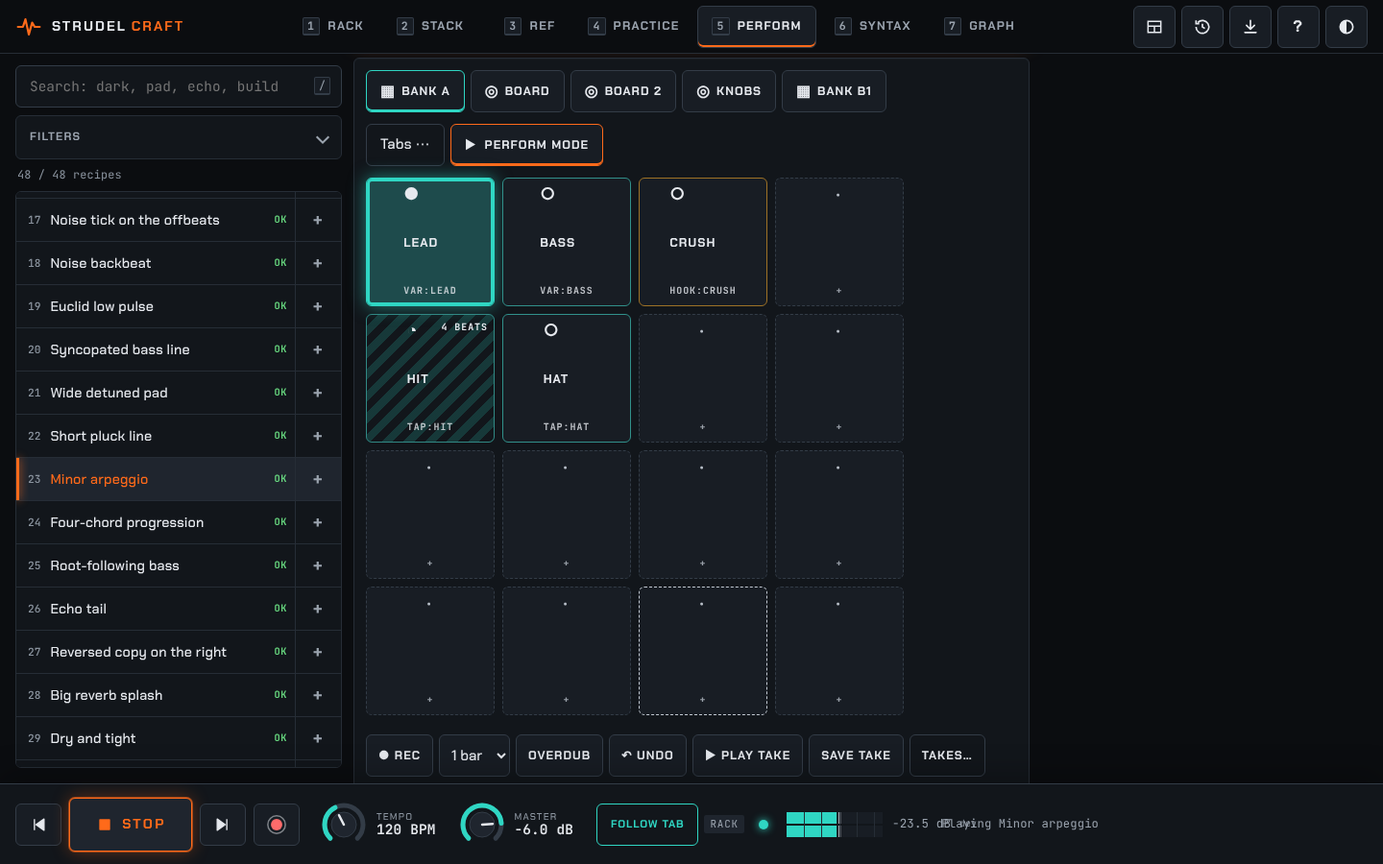
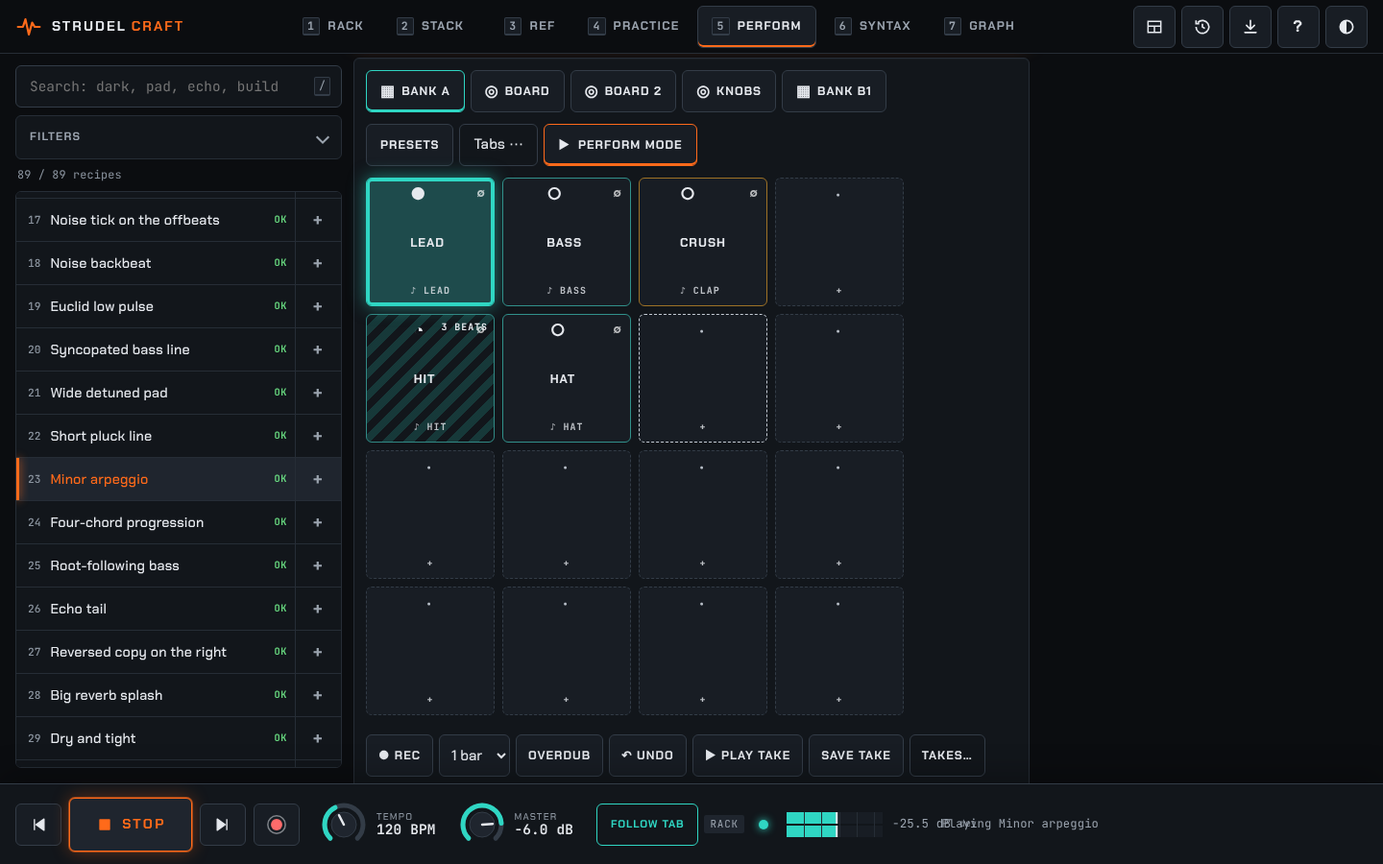
Perform pads: pads no code reads play a built-in audition voice (kick..crash by name/index, journaled as before), voice label on the pad, no toast over the pads, perform.js waits for engine boot; test perform_pads_audio. Refs #113 #114 #116
Claude-Session: https://claude.ai/code/session_01Tu9yF1Ta77zUw7h4fxzQMi

diff --git a/site/perform.js b/site/perform.js
@@ -7,6 +7,7 @@
 import * as N from './numfmt.js';
 import * as PP from './perform-presets.js';
 import * as PO from './perform-outputs.js';
+import * as PA from './perform-audition.js';
 const sc = window.strudelCraft;
 const $ = (s, r = document) => r.querySelector(s);
 const h = (tag, attrs = {}, ...kids) => { const e = document.createElement(tag); for (const [k, v] of Object.entries(attrs)) { if (v == null || v === false) continue; if (k === 'class') e.className = v; else if (k.startsWith('on')) e.addEventListener(k.slice(2), v); else e.setAttribute(k, v === true ? '' : v); } e.append(...kids.flat().filter((x) => x != null)); return e; };
@@ -309,10 +310,18 @@ function padState(bank, pos) {
   if (Tk.rec && c >= Tk.rec.from && on) return { state: 'recording', pad };
   return { state: on ? 'on' : 'loaded', pad };
 }
-const orphanPad = (pad) => PO.isOrphan(pad, PO.findSource(pad.target, codeTexts()));
-const warned = new Set(); // one toast per orphan pad per session, never while the pad is held
-function warnOrphan(bank, pos) { const pad = bank.pads.find((p) => p.pos === pos); const k = bank.id + '/' + pos; if (!pad || warned.has(k) || !orphanPad(pad)) return; warned.add(k); ui().toast(`${pad.label || pad.target.ref}: ${pad.target.kind === 'tap' ? '2 hits per press (on, off)' : 'press recorded'}, no code reads it (see Outputs)`, { kind: 'info', ms: 3500 }); }
+const orphanPad = (pad) => pad.target.kind === 'tap' ? !PA.readsTap(pad.target.ref, codeTexts()) : PO.isOrphan(pad, PO.findSource(pad.target, codeTexts()));
+/* #116: a pad nothing reads auditions a built-in voice (perform-audition.js), chosen by ref name / pad.audition / pad index; a read pad stays silent here */
+const padIndex = (bank, pad) => { const [r, c] = pad.pos.split(',').map(Number); return r * bank.cols + c; };
+const auditionOf = (bank, pad) => (pad && orphanPad(pad) ? PA.voiceFor(pad, padIndex(bank, pad)) : null);
+const player = PA.createPlayer({ sd: () => window.superdough, ctx: () => { try { return window.getAudioContext ? window.getAudioContext() : null; } catch (e) { return null; } },
+  load: () => window.__sc.Engine.load(), unmute: () => { try { if (window.__sc.Bus.muted) window.__sc.unmuteBus(); } catch (e) { /* bus not up yet */ } },
+  worklets: async () => { const wc = window.getAudioContext && window.getAudioContext(); if (wc && window.loadWorklets && !wc.__scWorklets) wc.__scWorklets = window.loadWorklets().catch(() => { wc.__scWorklets = null; }); if (wc && wc.__scWorklets) await wc.__scWorklets; } });
+let auditionOn = true;
+// no toast: a toast sits over the pad rows on a phone and swallowed the taps (#116); the pad label (♪ voice), the ∅ mark and Outputs say it instead
+function warnOrphan() { /* kept as a hook; see above */ }
 function renderBank(host, bank) {
+  if (auditionOn && M.perform && bank.pads.some((p) => auditionOf(bank, p))) (window.requestIdleCallback || setTimeout)(() => player.prewarm()); // load the engine ahead of the first tap (no sound, no gesture needed)
   const scenes = bank.scenes === 'row' || bank.scenes === 'col' ? bank.scenes : null;
   const grid = h('div', { class: 'pp-grid', style: `--cols:${bank.cols + (scenes === 'row' ? 1 : 0)}`, role: 'grid', 'aria-label': 'Pads ' + bank.id });
   const sceneBtn = (n, what) => h('button', { type: 'button', class: 'pp-scene', 'data-scene': n, 'aria-label': `Launch scene ${n + 1} (${what} ${n + 1})` }, h('span', { 'aria-hidden': 'true' }, '▶'), h('span', {}, 'S' + (n + 1)));
@@ -324,7 +333,7 @@ function renderBank(host, bank) {
         'aria-label': `Pad ${pos} ${pad ? (pad.label || pad.target.ref) : 'empty'}, ${st.state}${st.beats ? ', ' + st.beats + ' beats' : ''}` },
         h('span', { class: 'pp-mark', 'aria-hidden': 'true' }, STATE_MARK[st.state]),
         h('span', { class: 'pp-label' }, pad ? (pad.label || pad.target.ref) : ''),
-        h('span', { class: 'pp-ref' }, pad ? `${pad.target.kind}:${pad.target.ref}` : '+'), pad && orphanPad(pad) ? h('span', { class: 'pp-orph', title: 'No code reads this pad: see Outputs below', 'aria-hidden': 'true' }, '∅') : null,
+        h('span', { class: 'pp-ref' }, pad ? (auditionOf(bank, pad) ? `♪ ${auditionOf(bank, pad)}` : `${pad.target.kind}:${pad.target.ref}`) : '+'), pad && orphanPad(pad) ? h('span', { class: 'pp-orph', title: `No code reads this pad, so a press plays the built-in ${auditionOf(bank, pad)} voice (see Outputs below)`, 'aria-hidden': 'true' }, '∅') : null,
         st.state === 'queued' ? h('span', { class: 'pp-beats' }, st.beats + ' beats') : null);
       row.append(b);
     }
@@ -340,7 +349,7 @@ function renderBank(host, bank) {
   host.append(grid);
 }
 const lat = [], work = []; // ms: pointerdown event time -> journal entry written; pointerdown handler start -> journal entry written (main-thread work)
-function press(bank, pos, vel, t0) { const w0 = performance.now(); if (!bank.pads.find((p) => p.pos === pos)) return; warnOrphan(bank, pos); pads.press(`${bank.id}/${pos}`, nowCycle(), vel); journalChanged(); if (t0 != null) { const t1 = performance.now(); lat.push(t1 - t0); work.push(t1 - w0); if (lat.length > 500) { lat.shift(); work.shift(); } } }
+function press(bank, pos, vel, t0) { const w0 = performance.now(); if (!bank.pads.find((p) => p.pos === pos)) return; warnOrphan(bank, pos); { const pd = bank.pads.find((p) => p.pos === pos); const v = auditionOn && auditionOf(bank, pd); if (v) player.play(v, vel, t0 != null ? t0 : w0); } pads.press(`${bank.id}/${pos}`, nowCycle(), vel); journalChanged(); if (t0 != null) { const t1 = performance.now(); lat.push(t1 - t0); work.push(t1 - w0); if (lat.length > 500) { lat.shift(); work.shift(); } } }
 function release(bank, pos) { if (!bank.pads.find((p) => p.pos === pos)) return; pads.release(`${bank.id}/${pos}`, nowCycle()); journalChanged(); }
 let jT = 0; function journalChanged() { const j = pads.resolve(); sc.perform.journal = j; bridge(j); window.dispatchEvent(new CustomEvent('pads:journal', { detail: j })); cancelAnimationFrame(jT); jT = requestAnimationFrame(renderPadsOnly); }
 function renderPadsOnly() { const t = curTab(); if (t.kind !== 'bank') return; const host = $('#pfBody'); if (!host) return; host.querySelectorAll('.pp-pad').forEach((b) => { const st = padState(M.banks[t.id], b.dataset.pos); if (b.dataset.state === st.state && st.state !== 'queued') return; b.dataset.state = st.state; b.querySelector('.pp-mark').textContent = STATE_MARK[st.state]; let bt = b.querySelector('.pp-beats'); if (st.state === 'queued') { if (!bt) { bt = h('span', { class: 'pp-beats' }); b.append(bt); } bt.textContent = st.beats + ' beats'; } else if (bt) bt.remove(); const pad = st.pad; b.setAttribute('aria-label', `Pad ${b.dataset.pos} ${pad ? (pad.label || pad.target.ref) : 'empty'}, ${st.state}${st.beats ? ', ' + st.beats + ' beats' : ''}`); }); }
@@ -632,7 +641,7 @@ function outputsOf(t) {
   const texts = codeTexts(); const out = [];
   if (t.kind === 'bank') for (const pad of M.banks[t.id].pads) {
     const src = PO.findSource(pad.target, texts); const label = pad.label || pad.target.ref;
-    out.push({ key: `${t.id}/${pad.pos}`, name: label, tag: `${pad.pos} · ${pad.target.kind}:${pad.target.ref}`, src, orphan: PO.isOrphan(pad, src), note: PO.explainPad(pad, src), graph: pad.target.ref });
+    out.push({ key: `${t.id}/${pad.pos}`, name: label, tag: `${pad.pos} · ${pad.target.kind}:${pad.target.ref}`, src, orphan: orphanPad(pad), note: PO.explainPad(pad, orphanPad(pad) ? null : src, auditionOf(M.banks[t.id], pad)), graph: pad.target.ref });
   }
   else for (const n of boardNames(M.boards[t.id])) {
     try { const id = controls.resolve(n); const s = controls.declare(id); const site = [...(SITES.rack || []), ...(SITES.stack || [])].find((x) => x.id === id); const maps = controls.maps().filter((m) => m.control.split(':')[0] === id).map((m) => m.dest);
@@ -724,6 +733,7 @@ setInterval(() => {
 rebuildPads();
 sc.perform = { model: () => M, render, renderInline, controls, sites: (v) => SITES[v] || [], pads: () => pads, journal: [], latency: lat, work, glue: bindStrudel, looper: () => Tk.looper, take: Tk, lanes: A, applyLane, applyTake,
   capturing: (e) => isPerformView() && !e.ctrlKey && !e.metaKey && !e.altKey && ('kbd:' + e.code) in keyMap() && !/^(INPUT|TEXTAREA|SELECT)$/.test(e.target.tagName) && !e.target.isContentEditable };
+sc.perform.audition = { player, voices: PA.voiceNames, voiceFor: PA.voiceFor, set enabled(v) { auditionOn = !!v; }, get enabled() { return auditionOn; } };
 sc.perform.presets = { list: () => allPresets().map(({ id, title, about, builtin }) => ({ id, title, about, builtin: !!builtin })), apply: (p) => applyPreset(typeof p === 'string' ? allPresets().find((x) => x.id === p) || { id: p } : p),
   save: (title) => { const p = snapshot(String(title)); PP.store.put(p); M.preset = p.id; save(); return p; }, exportJSON: () => JSON.stringify(PP.exportDoc(PP.store.list()), null, 1),
   importJSON: (text) => { const r = PP.parseImport(text, new Set(allPresets().map((x) => x.id))); r.presets.forEach((p) => PP.store.put(p)); return r; }, open: openPresets };

diff --git a/site/perform-audition.js b/site/perform-audition.js
@@ -1,0 +1,69 @@
+/* Perform audition (docs/PERFORM_PRESETS.md section 4, #116): a pad that nothing in the program reads still sounds when pressed.
+   Voices are plain superdough synth values (no sample banks, so the first tap is instant and offline-safe), chosen by the pad's ref name
+   (kick, snare, ...), an explicit pad.audition voice name, or the pad's index in the bank (Beatpad order). The press is journaled by the pad
+   engine as before; this module only plays the sound. DOM-free except createPlayer (needs the page's superdough). */
+const D = (o) => o;
+/* name -> { label, vs: [superdough values], dur }. gain is the base level; velocity scales it. */
+export const VOICES = {
+  kick: { dur: 0.4, vs: [D({ s: 'sine', note: 'c2', penv: 30, pdecay: 0.07, decay: 0.32, sustain: 0, release: 0.02, gain: 1.1 })] },
+  snare: { dur: 0.25, vs: [D({ s: 'white', decay: 0.17, sustain: 0, release: 0.02, hpf: 1800, gain: 0.7 }), D({ s: 'triangle', note: 'a3', penv: 10, pdecay: 0.04, decay: 0.1, sustain: 0, gain: 0.6 })] },
+  clap: { dur: 0.25, vs: [D({ s: 'white', decay: 0.16, sustain: 0, release: 0.02, bpf: 1500, bpq: 1.2, gain: 1.2 })] },
+  hat: { dur: 0.1, vs: [D({ s: 'white', decay: 0.04, sustain: 0, release: 0.01, hpf: 7500, gain: 0.55 })] },
+  ohat: { dur: 0.4, vs: [D({ s: 'white', decay: 0.28, sustain: 0, release: 0.05, hpf: 7000, gain: 0.5 })] },
+  rim: { dur: 0.1, vs: [D({ s: 'sine', note: 'g5', decay: 0.04, sustain: 0, release: 0.01, gain: 0.7 }), D({ s: 'white', decay: 0.02, sustain: 0, hpf: 3000, gain: 0.4 })] },
+  tom: { dur: 0.45, vs: [D({ s: 'sine', note: 'g2', penv: 12, pdecay: 0.1, decay: 0.38, sustain: 0, release: 0.03, gain: 1 })] },
+  perc: { dur: 0.2, vs: [D({ s: 'triangle', note: 'e5', penv: -5, pdecay: 0.05, decay: 0.12, sustain: 0, release: 0.02, gain: 0.7 })] },
+  bass: { dur: 0.6, vs: [D({ s: 'sawtooth', note: 'c2', lpf: 520, decay: 0.45, sustain: 0.2, release: 0.1, gain: 0.7 })] },
+  stab: { dur: 0.3, vs: ['c4', 'eb4', 'g4'].map((n) => D({ s: 'sawtooth', note: n, lpf: 2200, decay: 0.16, sustain: 0, release: 0.04, gain: 0.3 })) },
+  chord: { dur: 1.1, vs: ['c3', 'eb3', 'g3', 'bb3'].map((n) => D({ s: 'triangle', note: n, decay: 0.9, sustain: 0.1, release: 0.2, gain: 0.35 })) },
+  lead: { dur: 0.5, vs: [D({ s: 'square', note: 'c5', lpf: 3200, decay: 0.35, sustain: 0.15, release: 0.1, gain: 0.35 })] },
+  fx: { dur: 0.7, vs: [D({ s: 'white', attack: 0.02, decay: 0.45, sustain: 0, release: 0.2, hpf: 3500, gain: 1 })] },
+  riser: { dur: 1.4, vs: [D({ s: 'white', attack: 0.4, decay: 0.3, sustain: 0, release: 0.2, hpf: 1200, gain: 0.9 })] },
+  hit: { dur: 0.7, vs: [D({ s: 'sine', note: 'c1', penv: 36, pdecay: 0.12, decay: 0.55, sustain: 0, release: 0.05, gain: 1.1 }), D({ s: 'white', decay: 0.12, sustain: 0, hpf: 600, gain: 0.5 })] },
+  crash: { dur: 1.4, vs: [D({ s: 'white', decay: 1.1, sustain: 0, release: 0.2, hpf: 5000, gain: 0.45 })] },
+};
+const ORDER = Object.keys(VOICES); // Beatpad order: pad index 0..15 (row-major) -> kick ... crash
+const ALIAS = { bd: 'kick', sd: 'snare', cp: 'clap', hh: 'hat', oh: 'ohat', lt: 'tom', mt: 'tom', ht: 'tom', cr: 'crash', kick: 'kick', 'open-hat': 'ohat', openhat: 'ohat' };
+export const voiceNames = () => ORDER.slice();
+/* pad + its index in the bank -> voice name: explicit pad.audition, else the ref / label name, else the index */
+export function voiceFor(pad, index) {
+  const pick = (s) => { s = String(s || '').toLowerCase().replace(/[^a-z-]/g, ''); return VOICES[s] ? s : ALIAS[s] || null; };
+  return pick(pad.audition) || pick(pad.target && pad.target.ref) || pick(pad.label) || ORDER[((index % ORDER.length) + ORDER.length) % ORDER.length];
+}
+/* does the program read the pad? Only a bare tap("x") / wire(..., "x") call is a reader; .tap("x") on a lane is the writer (publishes the lane) */
+export function readsTap(ref, texts) {
+  const r = String(ref).replace(/\(.*$/, '').replace(/@.*$/, '').replace(/[.*+?^${}()|[\]\\]/g, '\\$&'); const q = `['"\`]${r}['"\`]`;
+  const re = new RegExp(`(?<![.\\w$])(?:tap|wire)\\s*\\([^)\\n]*${q}`);
+  return (texts || []).some((t) => String(t.text || '').split('\n').some((l) => re.test(l)));
+}
+/* a press -> the list of [value, durationSeconds] to hand to superdough */
+export function plan(name, velocity) {
+  const v = VOICES[name]; if (!v) return []; const k = velocity == null ? 1 : 0.45 + 0.55 * Math.max(0, Math.min(1, velocity));
+  return v.vs.map((x) => [{ ...x, gain: +(x.gain * k).toFixed(3) }, v.dur]);
+}
+/* player: env = { sd: () => window.superdough, ctx: () => audio context | null, load: () => Promise (engine), unmute: () => void, worklets: () => Promise } */
+export function createPlayer(env) {
+  const st = { ready: false, pending: [], lat: [], count: 0, last: null, error: null, unlocked: false };
+  let booting = null;
+  const fire = (name, vel, t0) => {
+    const ctx = env.ctx(); const sd = env.sd(); if (!ctx || !sd) return false;
+    env.unmute(); const at = ctx.currentTime + (st.count < 2 ? 0.12 : 0.03); /* superdough drops a voice whose time passed while it built (first voices take longer) */
+    for (const [v, d] of plan(name, vel)) { try { const r = sd({ ...v }, at, d, 1, 0); if (r && r.catch) r.catch((e) => { st.error = e.message; }); } catch (e) { st.error = e.message; } }
+    st.count++; st.last = { name, at, ctxTime: ctx.currentTime }; if (t0 != null) { st.lat.push(performance.now() - t0); if (st.lat.length > 200) st.lat.shift(); } return true;
+  };
+  const boot = () => booting || (booting = (async () => {
+    await env.load(); const ctx = env.ctx(); if (ctx && ctx.state !== 'running') { try { await Promise.race([ctx.resume(), new Promise((r) => setTimeout(r, 1500))]); } catch (e) { /* blocked */ } }
+    try { await env.worklets(); } catch (e) { /* synth voices need none */ }
+    try { const sd = env.sd(); const c = env.ctx(); if (sd && c) for (const w of ['sine', 'white', 'sawtooth', 'square', 'triangle']) sd({ s: w, note: 'c3', gain: 0.0001, decay: 0.02, sustain: 0, lpf: 800, hpf: 300 }, c.currentTime + 0.02, 0.05, 1, 0); } catch (e) { /* warm-up only */ }
+    st.ready = true; st.unlocked = !!(env.ctx() && env.ctx().state === 'running'); const now = performance.now();
+    for (const p of st.pending.splice(0)) if (now - p.t0 < 4000) fire(p.name, p.vel, p.t0);
+  })().catch((e) => { st.error = e.message; booting = null; }));
+  /* resume inside the gesture (sync), play at once when the engine is up, else queue and boot */
+  st.play = (name, vel, t0 = performance.now()) => {
+    const ctx = env.ctx(); if (ctx && ctx.state !== 'running') { try { ctx.resume(); } catch (e) { /* later */ } }
+    if (st.ready || (ctx && env.sd())) { if (ctx && ctx.state === 'running' || st.ready) return fire(name, vel, t0); }
+    st.pending.push({ name, vel, t0 }); boot(); return false;
+  };
+  st.prewarm = () => { if (!st.ready && !booting) boot(); };
+  return st;
+}

diff --git a/site/app.js b/site/app.js
@@ -706,7 +706,7 @@ async function loadJSON(name) { const P = await packsReady; return name === 'cat
 /* ---------- views + routing ---------- */
 const VIEWS = ['rack', 'stack', 'ref', 'practice', 'perform', 'syntax', 'graph'];
 let syntaxLoad = null; function loadSyntax() { if (!syntaxLoad) syntaxLoad = import('./syntax.js').catch((e) => { syntaxLoad = null; say('Syntax view failed to load: ' + e.message, true); }); return syntaxLoad; }
-let performLoad = null; function loadPerform() { if (!performLoad) performLoad = import('./perform.js').catch((e) => { performLoad = null; say('Perform tools failed to load: ' + e.message, true); }); return performLoad; }
+let performLoad = null; function loadPerform() { if (!performLoad) performLoad = Promise.resolve(window.strudelCraft.booted).then(() => import('./perform.js')).catch((e) => { performLoad = null; say('Perform tools failed to load: ' + e.message, true); }); return performLoad; }
 window.addEventListener('strudel:ready', () => loadPerform());
 let graphLoad = null; function loadGraph() { if (!graphLoad) graphLoad = import('./graph.js').catch((e) => { graphLoad = null; say('Graph view failed to load: ' + e.message, true); }); return graphLoad; }
 /* mod RANGE table for wire()/taps (mirror of the CLI's lib/mod.mjs): ranges + canonical param names */
@@ -896,5 +896,5 @@ window.strudelCraft.transport = { play: () => play(), stop: () => stop(), toggle
   async ensureSamples(code) { await Engine.load(); if (needsSamplesFor(code) && !Engine.samplesLoaded) await loadSampleMaps(); },
   async warm() { await Engine.load(); try { if (!window.strudelCraft.hooks && window.strudelCraft.installHooks) window.strudelCraft.installHooks(); await applyRanges(); await loadPerform(); } catch (e) { /* optional */ } } };
 window.strudelCraft.engineState = () => ({ ...Engine.state, scheduler: Engine.scheduler, playing: S.playing, srcView: S.srcView || 'rack' });
-window.__sc = { S, Engine, Bus, currentSource, programTempo, play, stop, select, setView, History, toggleStack, holdLink: () => { S.linkHold = true; }, audio: { resume: resumeAudio, get state() { const c = audioCtx(); return c ? c.state : 'none'; }, get peak() { return AudioSt.lastPeak; }, needsSamplesFor } };
+window.__sc = { S, Engine, Bus, unmuteBus, currentSource, programTempo, play, stop, select, setView, History, toggleStack, holdLink: () => { S.linkHold = true; }, audio: { resume: resumeAudio, get state() { const c = audioCtx(); return c ? c.state : 'none'; }, get peak() { return AudioSt.lastPeak; }, needsSamplesFor } };
 document.addEventListener('DOMContentLoaded', boot);

diff --git a/site/perform-outputs.js b/site/perform-outputs.js
@@ -19,9 +19,9 @@ export function findSource(target, texts) {
 }
 
 /* one line: what the pad does when pressed, without jargon */
-export function explainPad(pad, src) {
+export function explainPad(pad, src, voice) {
   const t = pad.target, k = t.kind, mode = pad.mode || (k === 'tap' ? 'gate' : 'toggle');
-  if (k === 'tap') return `Tap pad: one hit is 2 journal entries (tap on press, tap-end on release). ${src ? 'The code reads it at the line shown.' : `No code reads tap "${t.ref}" yet, so a hit is recorded but nothing sounds; add .tap("${t.ref}") or bounce a take to code.`}`;
+  if (k === 'tap') return `Tap pad: one hit is 2 journal entries (tap on press, tap-end on release). ${src ? 'The code reads it at the line shown.' : voice ? `No code reads tap "${t.ref}", so a press plays the built-in ${voice} voice (audition) and is journaled; add tap("${t.ref}") to give it a reader.` : `No code reads tap "${t.ref}" yet, so a hit is recorded but nothing sounds; add tap("${t.ref}") or bounce a take to code.`}`;
   if (k === 'hook') return `Hook pad: ${mode === 'gate' ? 'holds' : 'toggles'} the "${base(t.ref)}" hook in slot "${t.slot || '?'}". ${src ? '' : 'No hooks.bind line names it, so the press only edits the journal.'}`.trim();
   if (k === 'var') return `Variable pad: ${mode === 'gate' ? 'holds' : 'toggles'} ${t.ref}${t.value != null ? ' = ' + t.value : ''}. ${src ? '' : 'No code reads this variable.'}`.trim();
   if (k === 'component') return `Component pad: opens the instance "${t.ref}" (hooks.inst).`;
@@ -30,3 +30,5 @@ export function explainPad(pad, src) {
   return `Action pad: runs "${t.ref}".`;
 }
 export const isOrphan = (pad, src) => !src && ['tap', 'hook', 'var'].includes(pad.target.kind);
+/* a tap pad is read only by a bare tap("x") / wire(..., "x") call; the lane writer .tap("x") (night-phonk-demo) does not read pad presses */
+export { readsTap } from './perform-audition.js';

diff --git a/site/perform.css b/site/perform.css
@@ -127,3 +127,4 @@
 .pf-o-line{display:block;font-family:var(--mono);font-size:.74rem;overflow-wrap:anywhere;margin-bottom:6px}.pf-o-line.none{color:var(--warn)}
 .pf-graph-glow{outline:2px solid var(--sig-2);outline-offset:2px}
 @media (prefers-reduced-motion:no-preference){.pf-graph-glow{transition:outline-color .2s}}
+.pp-pad .pp-ref{color:var(--text)}.pp-orph{position:absolute;top:6px;right:8px;font-size:.8rem;opacity:.7}

diff --git a/docs/PERFORM_PRESETS.md b/docs/PERFORM_PRESETS.md
@@ -24,4 +24,12 @@ API: `strudelCraft.perform.presets.{list, apply(id|preset), save(title), exportJ
 
 ## 3. Outputs and sources
 Every pad and control of the open tab is an output row under `Outputs and sources`. Tap a row to reveal: the code line it reads or writes (pad: first match of `tap('x')`, `hooks.bind(slot, 'x')`, `hooks.let('x')`, `hooks.inst('x')`, else any quoted `'x'`; control: its site path), a one-line explanation, `Go to code` (the deliberate jump, #107) and `Show in graph` (the graph node with that label glows; the view switches to Graph when it is not open). Pressing a pad or revealing a row never scrolls the editor.
-- **The 2-hit output.** A tap pad (`kind: tap`, mode gate) is one hit = two journal entries: `tap` on press and `tap-end` on release, written to `hooks.journal` as `pad:tap`, `pad:tap-end`. The hooks runtime journals but does not apply them, and the editor holds no `tap("x")` unless you wrote one, so a tap pad nothing reads shows no syntax in Perform and did nothing audible while the graph still showed the program's drum nodes. Such pads are now marked `∅` / `unread`, counted in the summary and toast once; Bounce a take to code (`hooks.publish('x', ...)`) or add `.tap("x")` to give it a reader.
+- **The 2-hit output.** A tap pad (`kind: tap`, mode gate) is one hit = two journal entries: `tap` on press and `tap-end` on release, written to `hooks.journal` as `pad:tap`, `pad:tap-end`. The hooks runtime journals but does not apply them, and the editor holds no `tap("x")` unless you wrote one, so a tap pad nothing reads shows no syntax in Perform and did nothing audible while the graph still showed the program's drum nodes. Such pads are marked `∅` / `unread` and counted in the Outputs summary (no toast: a toast sat over the pad rows on a phone and swallowed taps). A reader is a bare `tap("x")` / `wire(..., "x")` call; the lane writer `.tap("kick", {export: true})` of night-phonk-demo publishes the lane and does not read pad presses. Give a pad a reader with `tap("x")` or bounce a take to code (`hooks.publish('x', ...)`); until then section 4 applies.
+
+## 4. Audition voices (#116)
+A pad that nothing reads (the orphan rule of section 3: tap pads without a bare `tap("x")`, hook/var pads without a source line) plays a built-in **audition voice** the moment it is pressed, and is journaled exactly as before; a pad the program reads stays silent here (the reader wins, nothing existing changes).
+- Voice choice: `pad.audition` (a voice name, optional pad-sheet-free field of the preset JSON), else the pad's `ref`/`label` (`kick snare clap hat ohat rim tom perc bass stab chord lead fx riser hit crash`; aliases `bd sd cp hh oh lt cr`), else the pad index row-major in Beatpad order (so Minimal's a, b, c, d play kick, snare, clap, hat).
+- Voices are plain superdough synth values (sine pitch-drop kick, noise snare/hat/clap, saw bass/stab, triangle chord, square lead): no sample banks, so the first tap is instant. Velocity scales gain. Pad label line shows `♪ <voice>` instead of `tap:<ref>` and the `∅` mark stays; the Outputs note says which voice plays.
+- Pointer-down triggers (no scroll, no focus, #107 behaviour); the audio context is resumed inside that gesture and the Strudel engine is pre-loaded when a bank with such pads is shown, so the first tap sounds (a tap before the engine is up is queued, dropped after 4 s). The master bus is un-muted if Stop had muted it.
+- API: `strudelCraft.perform.audition` = `{ enabled, voices(), voiceFor(pad, index), player }` (`player.count/lat/error/ready`). Source: `site/perform-audition.js`.
+- Test: `node tests/site/perform_pads_audio.mjs` (touch taps at 390 px on the default demo and night-phonk-demo, every pad of Beatpad and Minimal must reach > 0.01 on the master analyser; cold first tap; a read pad stays silent). Mixer and Macro are control boards, they have no pads.

diff --git a/site/README.md b/site/README.md
@@ -177,6 +177,7 @@ open recipe `.json` files with the installed app (file handler -> Record panel `
     node tests/site/graph_soak.mjs     # Graph view open/close soak: no growth after GC across 50 rounds (#52 stability)
     node tests/site/perform.mjs        # Perform view, learn/map, lanes, looper (#55)
     node tests/site/perform_presets.mjs # Perform presets + outputs/sources, the 2-hit tap pad
+    node tests/site/perform_pads_audio.mjs # every preset pad is audible on the master analyser (touch, 390 px, #116)
     node tests/site/word_intellisense.mjs  # word() completions from data/intellisense/words.json (#44)
     node tests/site/vox.mjs            # vocal banks and voxBank()
     node tests/site/voxbrowser.mjs     # Banks browser and bank-aware word() completions at 360px (#85)
@@ -558,7 +559,7 @@ Alt+arrows reorder) of pad banks and control boards; "Tabs ⋯" adds, renames, d
 or `pickup` for hardware/input events); it adds or replaces its own tabs (`pb-<id>`, `pn-<id>`) and keeps yours. Save current as preset, Export / Import (`perform-presets@1` JSON, clashing ids get `-2`)
 and Delete; user presets persist in `localStorage sc.perform.presets`. Code API: `strudelCraft.perform.presets.{list,apply,save,exportJSON,importJSON,open}`. Under every tab,
 `Outputs and sources` lists each pad and control; tapping a row reveals the code line it reads (`Rack L3: ...`), a one-line explanation and two buttons, `Go to code` (the only jump; a press never scrolls the editor) and
-`Show in graph` (highlights the node with that label, switching to Graph if needed). A tap pad is 2 journal entries per hit (`pad:tap`, `pad:tap-end`); one no code reads is marked `∅` / `unread` and toasts once.
+`Show in graph` (highlights the node with that label, switching to Graph if needed). Pads nothing reads play a built-in audition voice (`perform-audition.js`, docs/PERFORM_PRESETS.md section 4: label `♪ kick`, pointer-down, journaled as before, a read pad stays silent). A tap pad is 2 journal entries per hit (`pad:tap`, `pad:tap-end`); one no code reads is marked `∅` / `unread` (no toast: it covered the pad rows on a phone).
 ## Shared model (`model.js`, `data/schema/model.v1.json`)
 Standalone ES module: `parse(text)`, `generate(model)`, `applyOp(model, op)`, `graph(model)`, `layout(model)`, `canonical`, `hash`, `serialize`, `load`, `fromConfig`.
 - Parser: acorn 8.19.0 (MIT, (c) Marijn Haverbeke and others), loaded unmodified as its own file `vendor/acorn-8.19.0.mjs` (licence: `vendor/acorn-LICENSE.txt`), only when `model.js` is imported. No Strudel transpiler code is copied.
